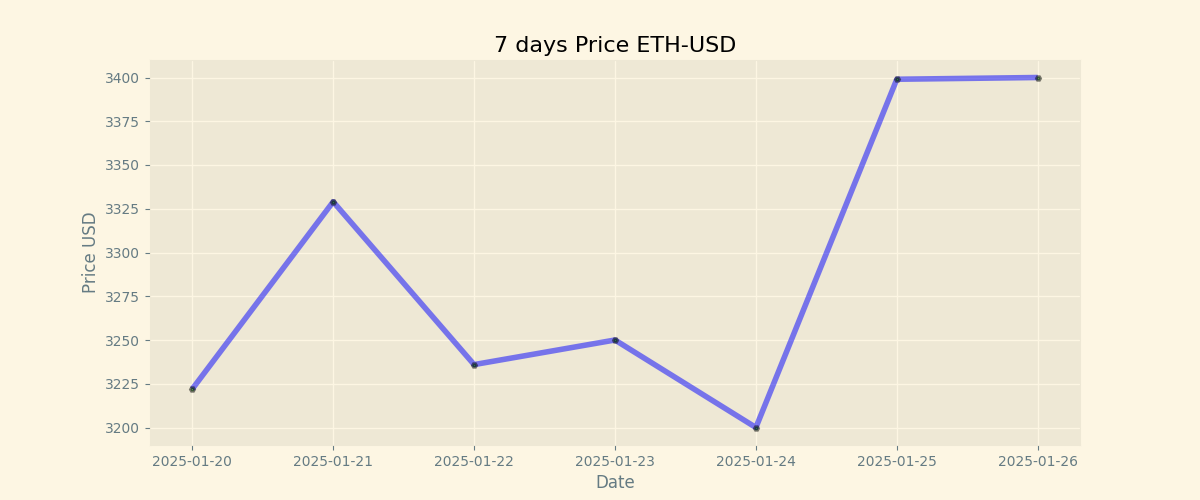
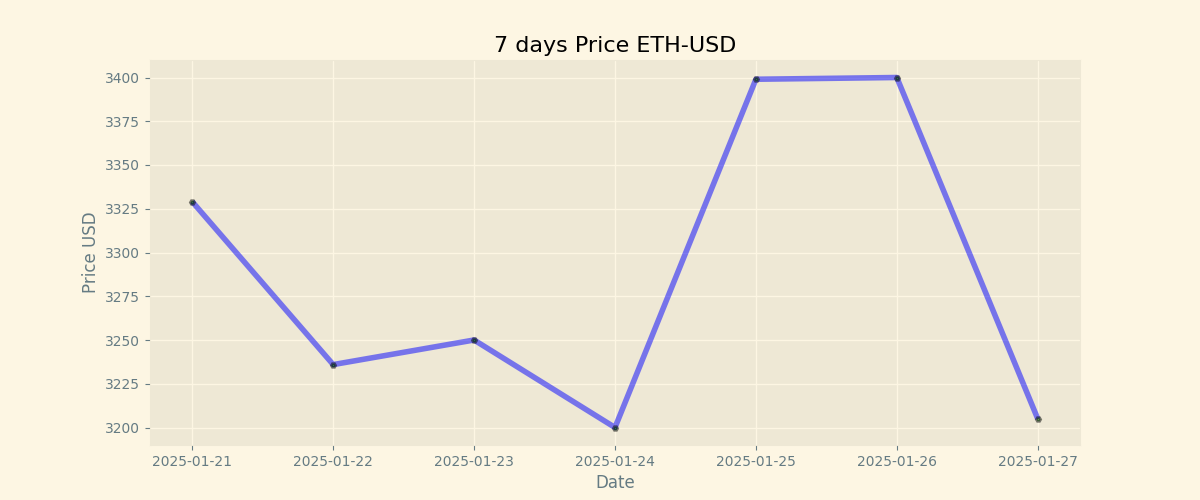
Duty Updates 2025-01-27

diff --git a/README.md b/README.md
@@ -9,8 +9,8 @@
 
 | Currency | Price           |
 | -------- | --------------- |
-| **BTC**  | **$ 103476.97** |
-| **ETH**  | **$ 3400.0** |
+| **BTC**  | **$ 106000.0** |
+| **ETH**  | **$ 3205.0** |
 
 ## BTC chart
 
